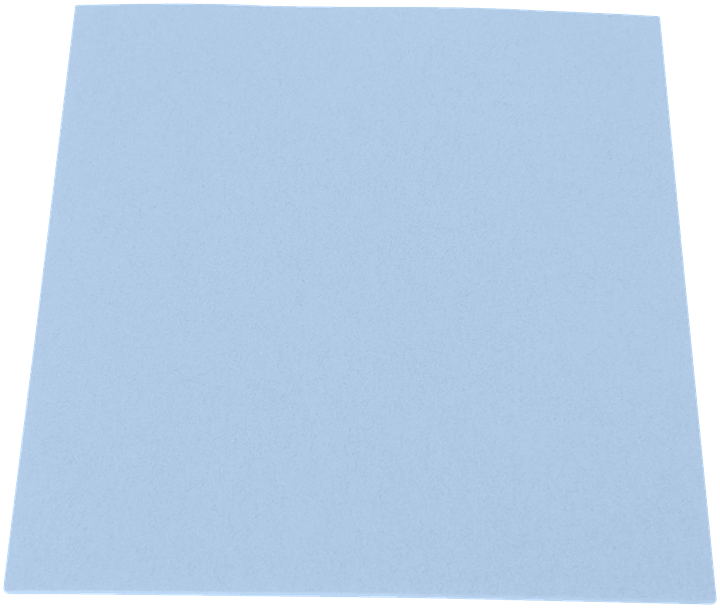
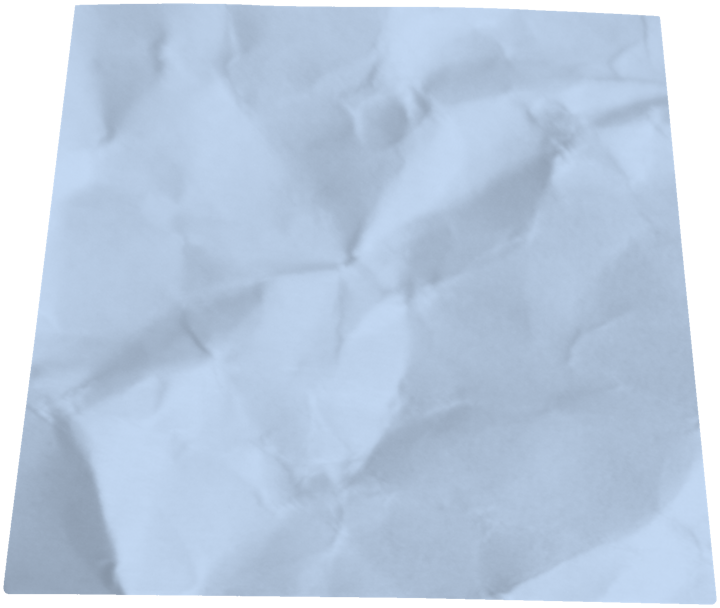
Add review note style comparison toggle

diff --git a/reviews.html b/reviews.html
@@ -117,9 +117,42 @@
       gap:8px;
       align-items:center;
     }
+    .reviews-spotlight-side {
+      display:grid;
+      justify-items:end;
+      gap:10px;
+    }
     .reviews-spotlight-stats {
       justify-content:flex-end;
       align-self:start;
+    }
+    .reviews-spotlight-note-toggle {
+      display:inline-flex;
+      align-items:center;
+      gap:6px;
+      padding:4px;
+      border:1px solid rgba(255,255,255,.12);
+      border-radius:14px;
+      background:rgba(10, 24, 44, .52);
+    }
+    .reviews-spotlight-note-toggle button {
+      min-height:32px;
+      padding:0 12px;
+      border:0;
+      border-radius:10px;
+      background:transparent;
+      color:#d8e4ff;
+      font-size:12px;
+      font-weight:800;
+      cursor:pointer;
+      transition:background .2s ease, color .2s ease, transform .2s ease;
+    }
+    .reviews-spotlight-note-toggle button.is-active {
+      background:rgba(245,158,11,.18);
+      color:#fff6e0;
+    }
+    .reviews-spotlight-note-toggle button:hover {
+      transform:translateY(-1px);
     }
     .reviews-spotlight-stat {
       min-height:34px;
@@ -306,20 +339,35 @@
     .reviews-spotlight-card-thumb-wrap::before {
       display:none;
     }
-    .reviews-spotlight-card.tone-sun {
-      background-image:url('images/reviews/note-yellow.png?v=20260306j');
+    body[data-review-note-style="wrinkled"] .reviews-spotlight-card.tone-sun {
+      background-image:url('images/reviews/note-yellow.png?v=20260306k');
     }
-    .reviews-spotlight-card.tone-rose {
-      background-image:url('images/reviews/note-pink-real.png?v=20260306j');
+    body[data-review-note-style="wrinkled"] .reviews-spotlight-card.tone-rose {
+      background-image:url('images/reviews/note-pink-real.png?v=20260306k');
     }
-    .reviews-spotlight-card.tone-sky {
-      background-image:url('images/reviews/note-blue.png?v=20260306j');
+    body[data-review-note-style="wrinkled"] .reviews-spotlight-card.tone-sky {
+      background-image:url('images/reviews/note-blue.png?v=20260306k');
     }
-    .reviews-spotlight-card.tone-mint {
-      background-image:url('images/reviews/note-green-real.png?v=20260306j');
+    body[data-review-note-style="wrinkled"] .reviews-spotlight-card.tone-mint {
+      background-image:url('images/reviews/note-green-real.png?v=20260306k');
     }
-    .reviews-spotlight-card.tone-cream {
-      background-image:url('images/reviews/note-cream.png?v=20260306j');
+    body[data-review-note-style="wrinkled"] .reviews-spotlight-card.tone-cream {
+      background-image:url('images/reviews/note-cream.png?v=20260306k');
+    }
+    body[data-review-note-style="curled"] .reviews-spotlight-card.tone-sun {
+      background-image:url('images/reviews/note-curled-yellow.png?v=20260306l');
+    }
+    body[data-review-note-style="curled"] .reviews-spotlight-card.tone-rose {
+      background-image:url('images/reviews/note-curled-pink.png?v=20260306l');
+    }
+    body[data-review-note-style="curled"] .reviews-spotlight-card.tone-sky {
+      background-image:url('images/reviews/note-curled-blue.png?v=20260306l');
+    }
+    body[data-review-note-style="curled"] .reviews-spotlight-card.tone-mint {
+      background-image:url('images/reviews/note-curled-green.png?v=20260306l');
+    }
+    body[data-review-note-style="curled"] .reviews-spotlight-card.tone-cream {
+      background-image:url('images/reviews/note-curled-cream.png?v=20260306l');
     }
     .reviews-spotlight-footer {
       display:flex;
@@ -399,6 +447,9 @@
         display:grid;
         grid-template-columns:1fr;
         padding:0;
+      }
+      .reviews-spotlight-side {
+        justify-items:start;
       }
       .reviews-spotlight-stats { justify-content:flex-start; }
       .reviews-spotlight-stage {
@@ -547,8 +598,14 @@
           <h2 class="reviews-spotlight-heading">The strongest takes should feel alive, not pinned flat.</h2>
           <p class="reviews-spotlight-subtext">This stack rotates through the sharpest active reviews and keeps the art, rating, and reviewer visible inside each card.</p>
         </div>
-        <div class="reviews-spotlight-stats" id="reviewsSpotlightStats">
-          <span class="reviews-spotlight-stat">Loading review pulse...</span>
+        <div class="reviews-spotlight-side">
+          <div class="reviews-spotlight-note-toggle" aria-label="Sticky note style">
+            <button id="reviewNoteStyleWrinkled" class="is-active" type="button" data-note-style="wrinkled">Wrinkled</button>
+            <button id="reviewNoteStyleCurled" type="button" data-note-style="curled">Curled</button>
+          </div>
+          <div class="reviews-spotlight-stats" id="reviewsSpotlightStats">
+            <span class="reviews-spotlight-stat">Loading review pulse...</span>
+          </div>
         </div>
       </div>
       <div class="reviews-spotlight-stage" id="reviewsSpotlightStage" aria-label="Floating review spotlight cards"></div>
@@ -591,7 +648,7 @@
     <a class="mobile-nav-item active" href="reviews.html" aria-label="Reviews"><i class="fa-solid fa-star"></i></a>
   </nav>
 
-  <script src="js/reviews-page.js?v=20260306g" defer></script>
+  <script src="js/reviews-page.js?v=20260306h" defer></script>
   <script src="js/production-runtime.js?v=20260306a" defer></script>
 </body>
 </html>

diff --git a/js/reviews-page.js b/js/reviews-page.js
@@ -32,6 +32,8 @@
   const itemMeta = new Map();
   const REVIEW_SPOTLIGHT_ROTATE_MS = 7000;
   const REVIEW_SPOTLIGHT_MOBILE_QUERY = '(max-width: 760px)';
+  const REVIEW_NOTE_STYLE_KEY = 'zo2y-review-note-style';
+  let reviewNoteStyle = 'wrinkled';
 
   function escapeHtml(value) {
     return String(value ?? '')
@@ -414,6 +416,36 @@
     } catch (_err) {
       return false;
     }
+  }
+
+  function applyReviewNoteStyle(style, persist = true) {
+    reviewNoteStyle = style === 'curled' ? 'curled' : 'wrinkled';
+    document.body?.setAttribute('data-review-note-style', reviewNoteStyle);
+    document.querySelectorAll('[data-note-style]').forEach((button) => {
+      button.classList.toggle('is-active', button.getAttribute('data-note-style') === reviewNoteStyle);
+    });
+    if (!persist) return;
+    try {
+      window.localStorage?.setItem(REVIEW_NOTE_STYLE_KEY, reviewNoteStyle);
+    } catch (_err) {
+      // Ignore persistence failures.
+    }
+  }
+
+  function initReviewNoteStyleControls() {
+    let savedStyle = 'wrinkled';
+    try {
+      const localValue = window.localStorage?.getItem(REVIEW_NOTE_STYLE_KEY);
+      if (localValue === 'curled' || localValue === 'wrinkled') savedStyle = localValue;
+    } catch (_err) {
+      savedStyle = 'wrinkled';
+    }
+    applyReviewNoteStyle(savedStyle, false);
+    document.querySelectorAll('[data-note-style]').forEach((button) => {
+      button.addEventListener('click', () => {
+        applyReviewNoteStyle(button.getAttribute('data-note-style') || 'wrinkled', true);
+      });
+    });
   }
 
   function normalizeReviewSpotlightIndex(index) {
@@ -811,6 +843,7 @@
   }
 
   document.addEventListener('DOMContentLoaded', () => {
+    initReviewNoteStyleControls();
     wireFilters();
     wireReviewSpotlight();
     void loadAuthState();

diff --git a/sw.js b/sw.js
@@ -1,6 +1,6 @@
 const APP_SHELL_CACHE = 'zo2y-app-shell-v25';
-const PAGE_CACHE = 'zo2y-pages-v37';
-const IMAGE_CACHE = 'zo2y-images-v14';
+const PAGE_CACHE = 'zo2y-pages-v39';
+const IMAGE_CACHE = 'zo2y-images-v16';
 const API_CACHE = 'zo2y-api-v4';
 const MAX_IMAGE_CACHE_ENTRIES = 220;
 const MAX_API_CACHE_ENTRIES = 260;
